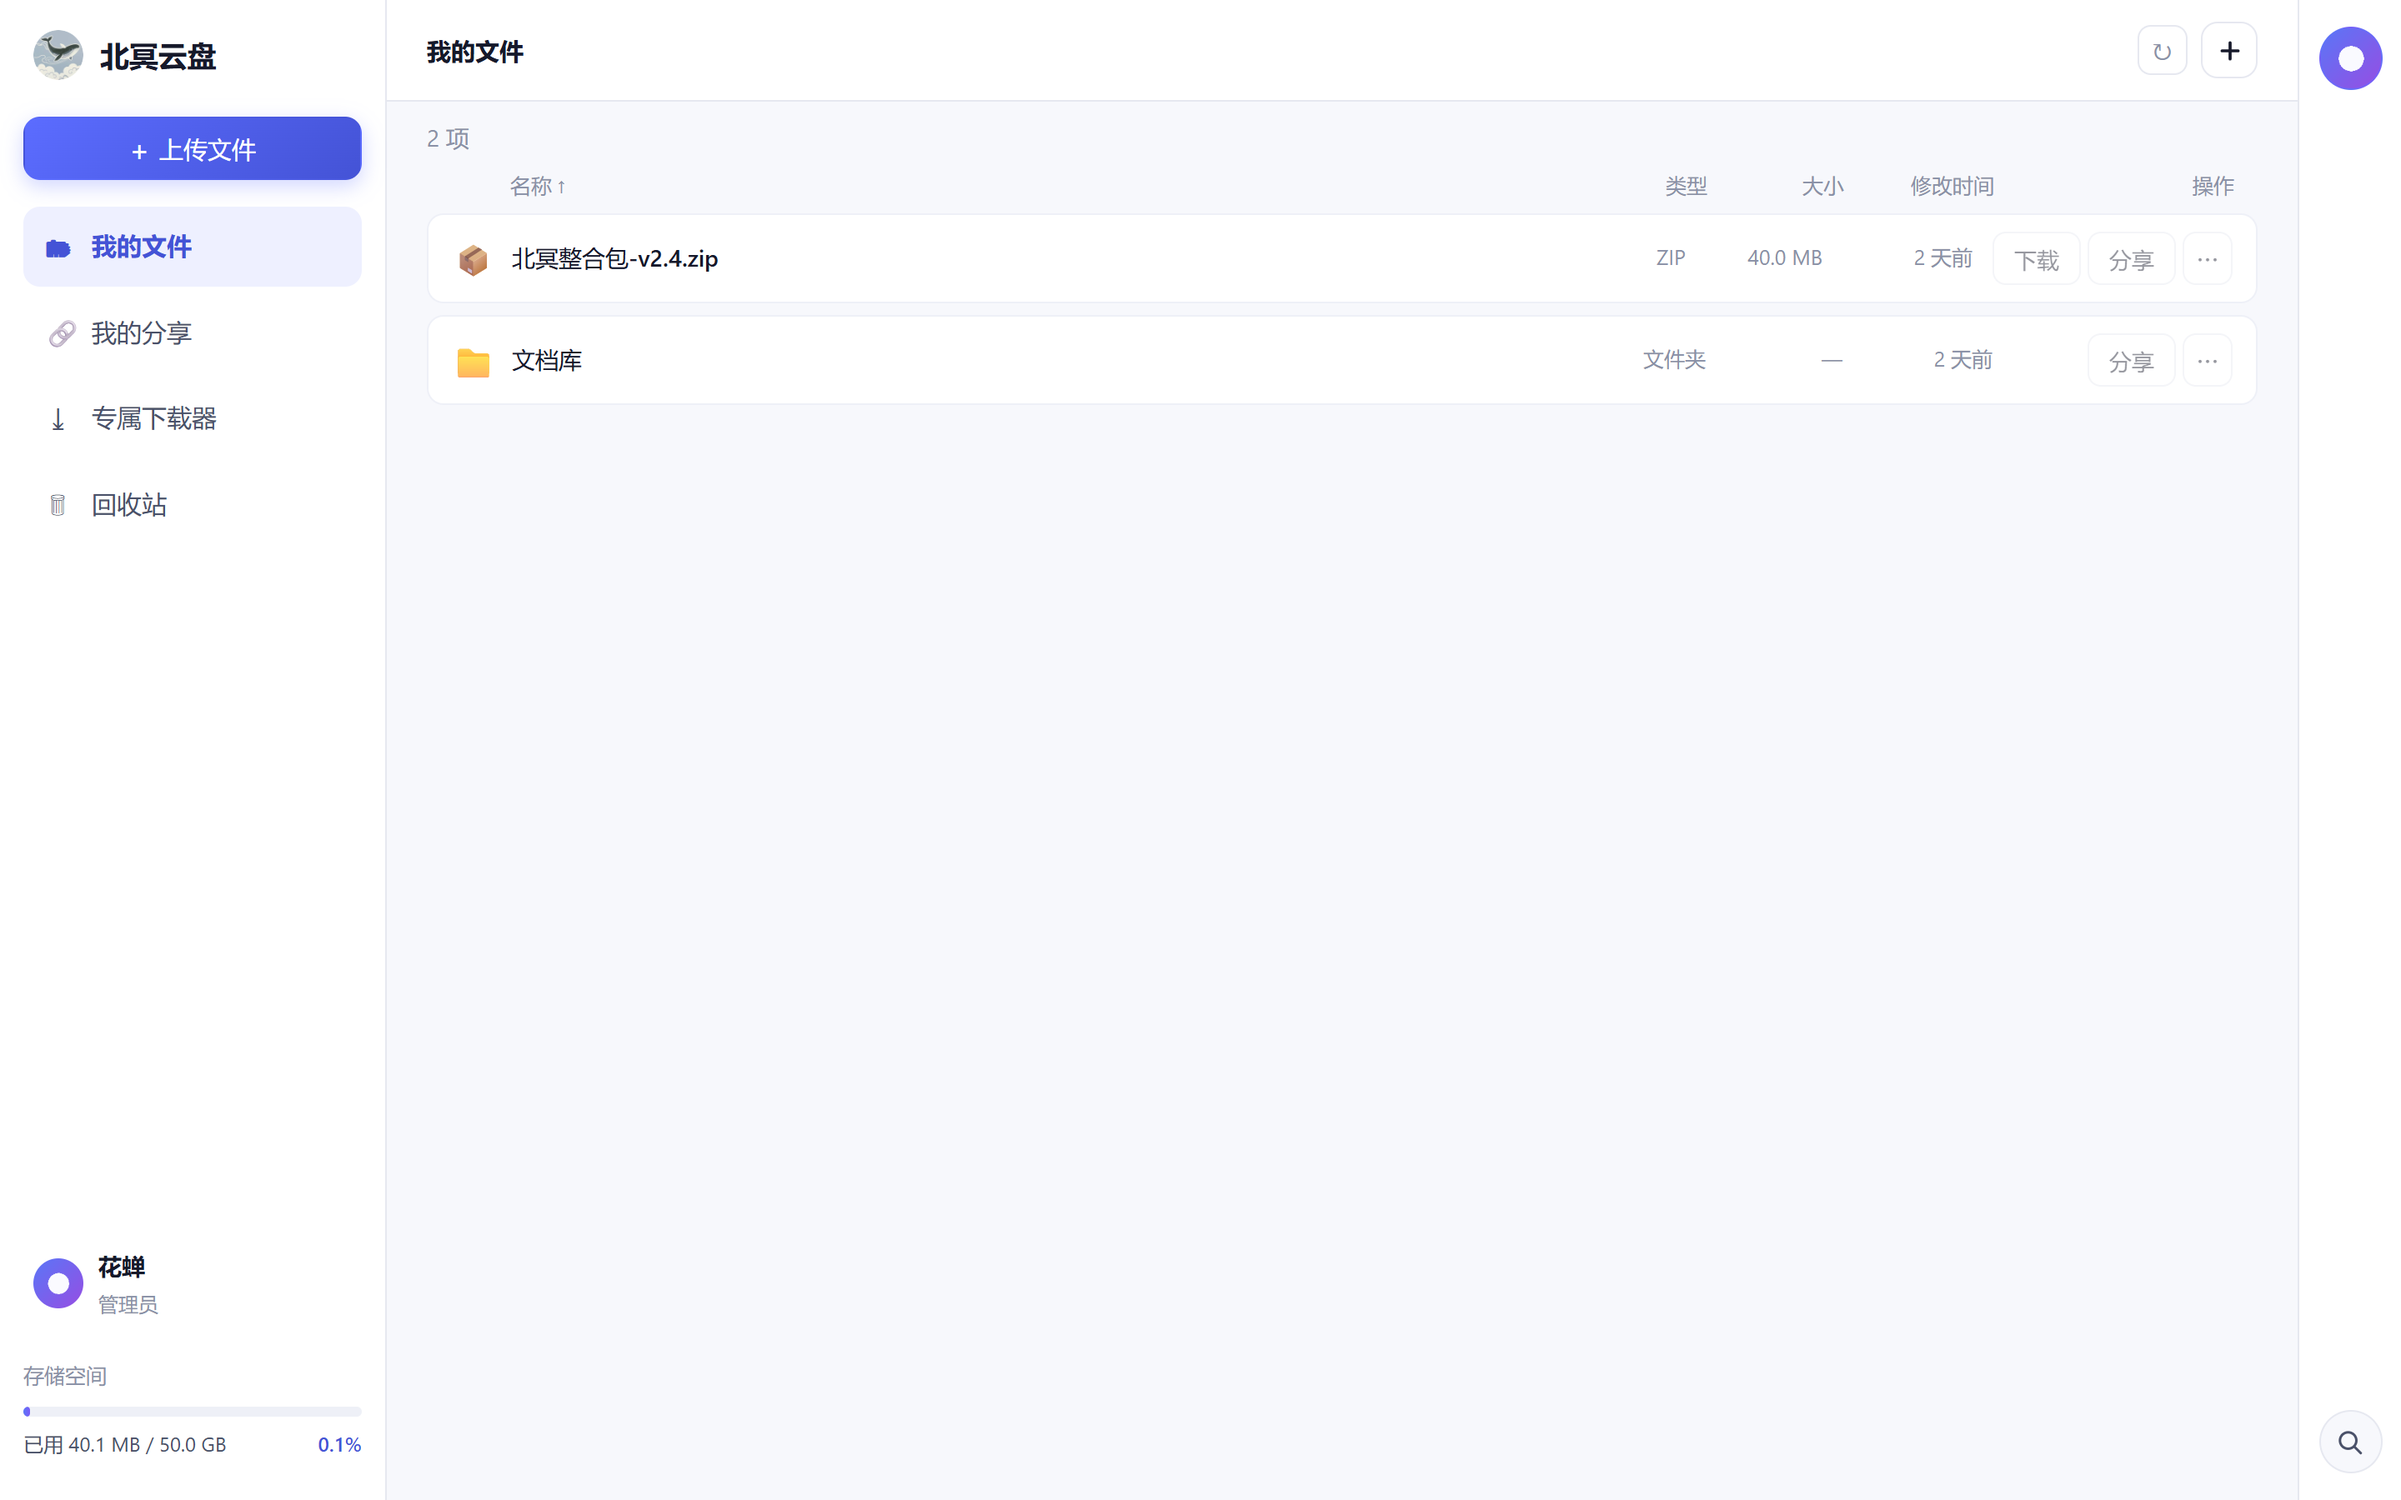
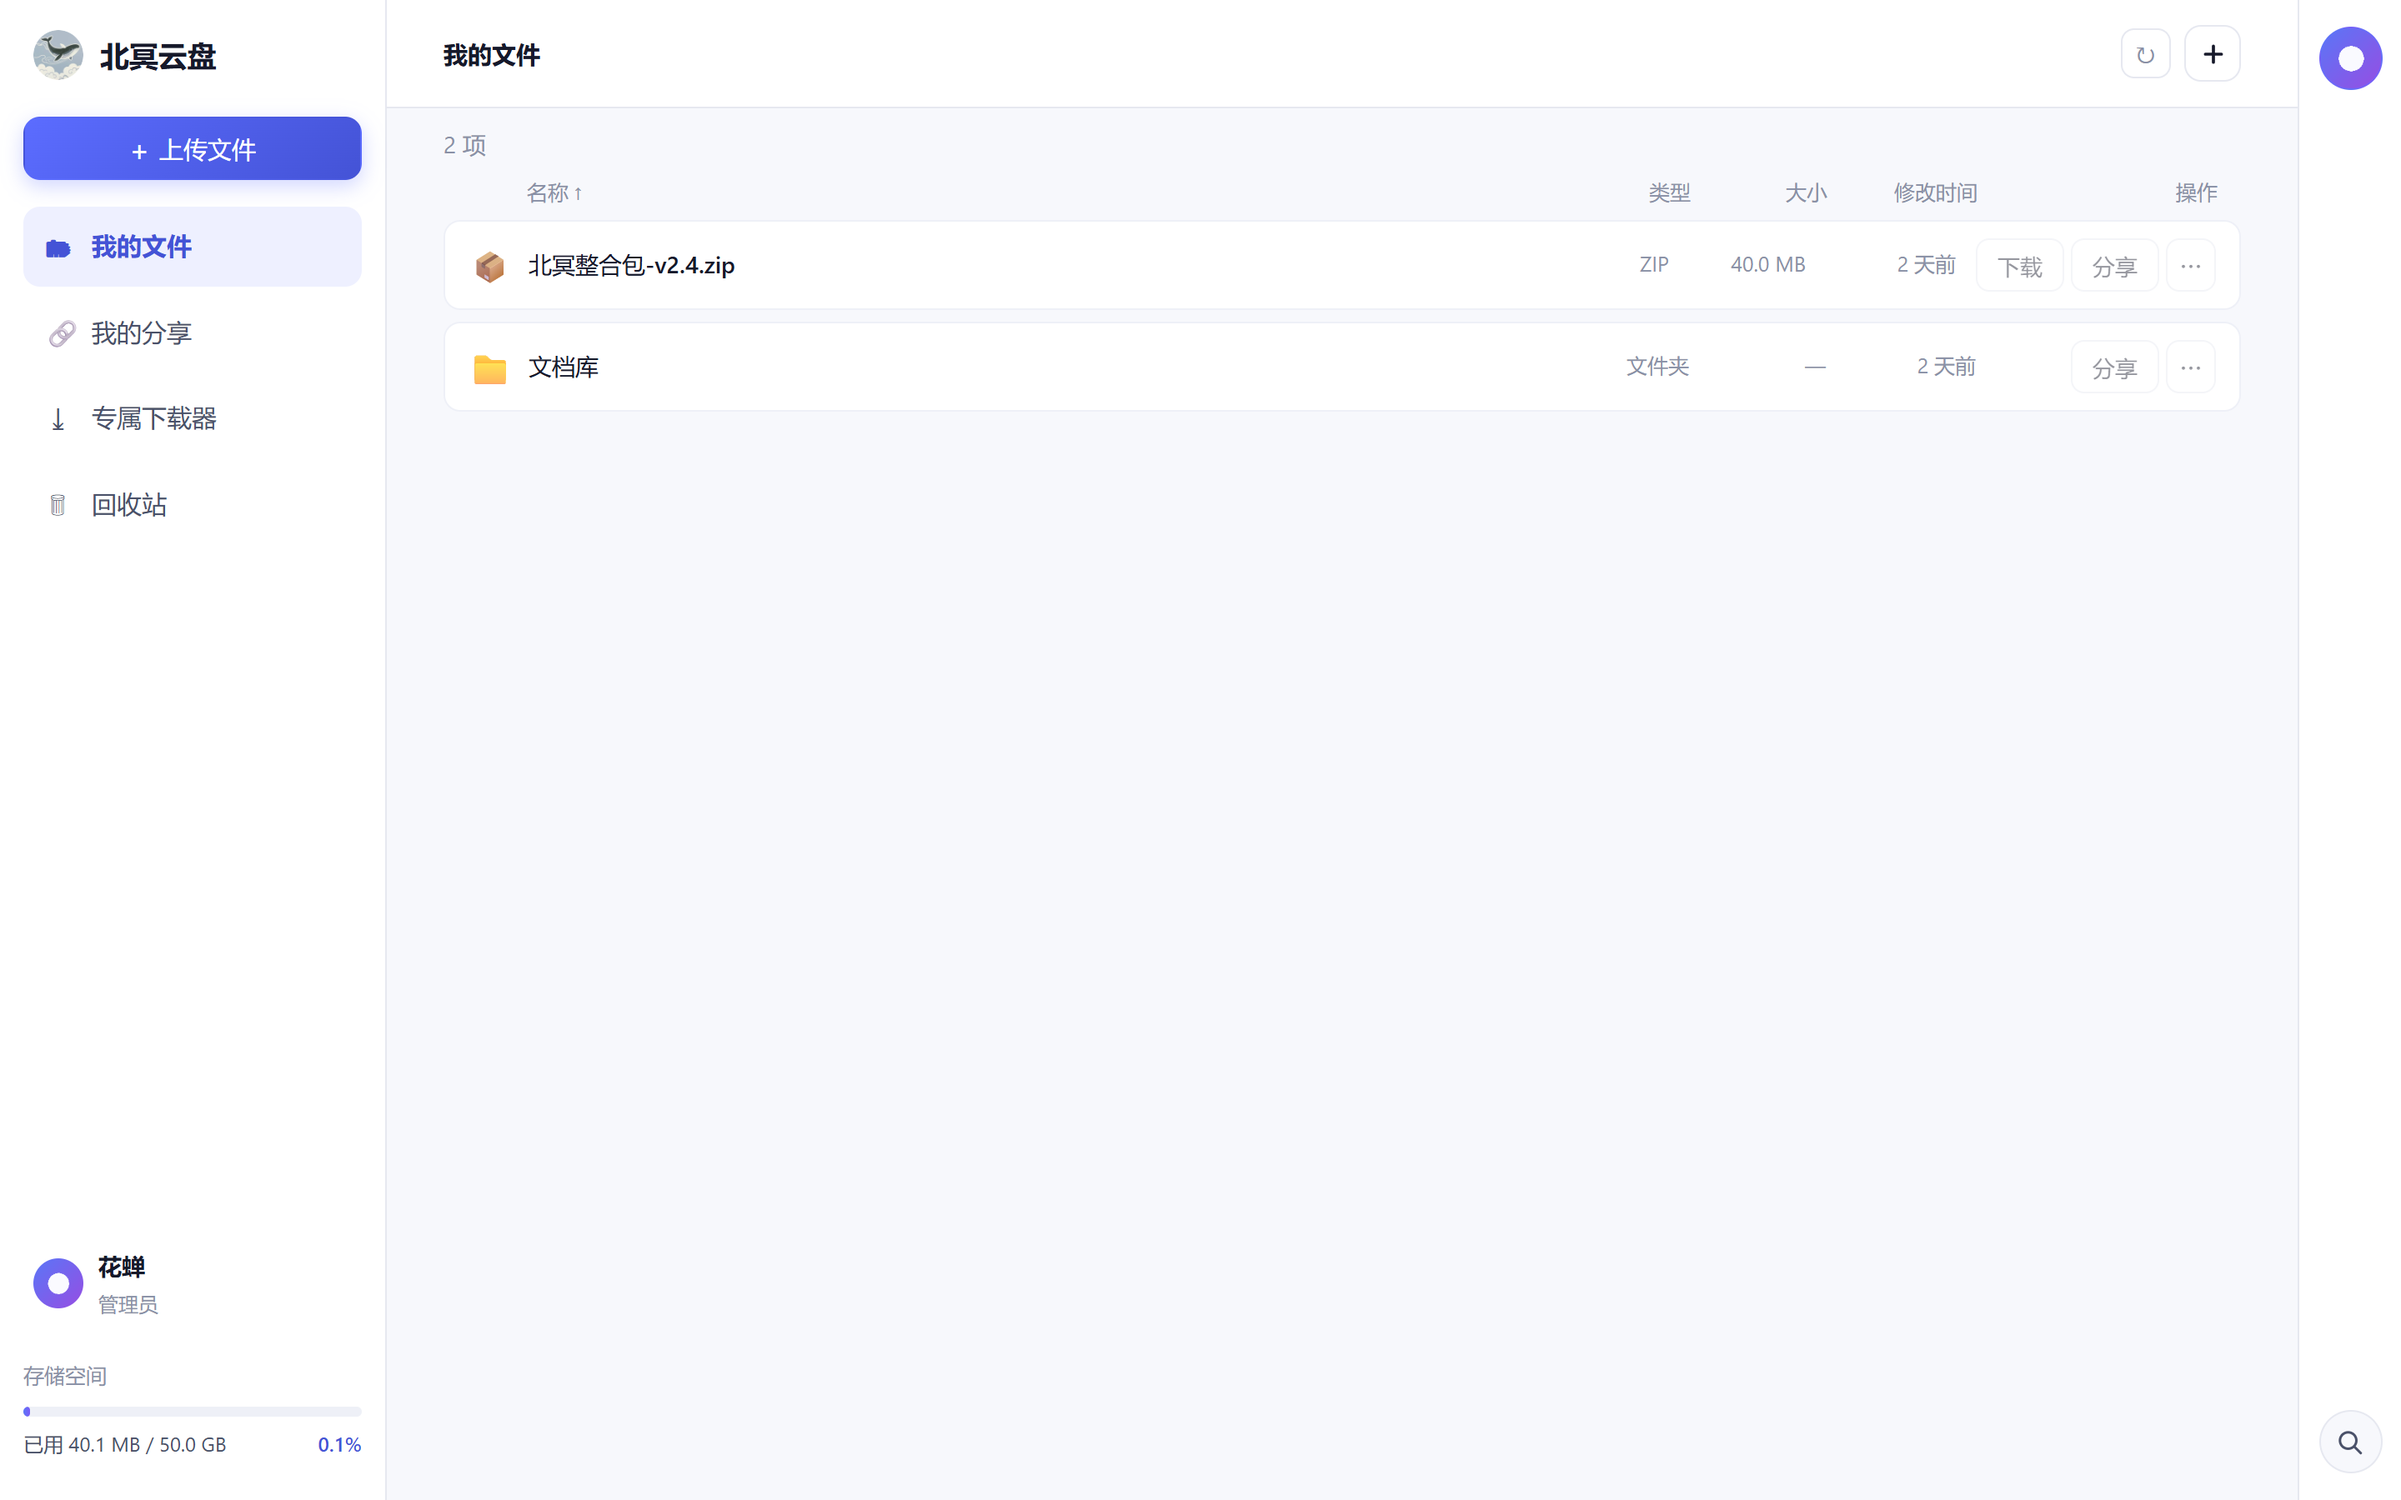
style(web): 统一各页内边距与内容宽度上限，文字不再贴边
下载器页压根没给 .page 定内边距和宽度上限，标题、输入框、任务卡片
全顶着窗口边缘并横向拉满 —— 和另外四页明显不是一套。

- Downloader 补 .page（30px 34px 48px）+ max-width 760px。
- Shares 补 max-width 760px（它有 padding 但没限宽）。
- Home 顶栏与列表横向内边距 24 → 34px，与其余页对齐；
  .bar-info 24 → 34px，和顶栏同一条竖线。
- Downloader 的 .list-head 补 24px 横向内边距：
  「刷新」原本顶在容器边界，与卡片内按钮错开一截。
- 任务卡片 padding 20 → 24px，与下载卡片一致。

不做的：宽屏居中。后台界面左对齐是惯例，且其余四页都是左对齐限宽，
只让这一页居中会和其他页对不上；右侧留白是限宽的自然结果。

实测（CDP 量 getBoundingClientRect，1440x900）：
我的分享/专属下载器/存储空间 左距 34px、内容宽 760px；
个人信息 720px（表单更窄更好读）；
下载器页四条右边线全部落在 1002px —— 开始下载、说明文字、刷新、删除完全齐。

教训：这类「齐不齐」不要靠看截图判断。vision 目测说差十几像素，
实际量出来是同一条线；差的是估算，不是布局。

diff --git a/frontend/src/pages/Downloader.vue b/frontend/src/pages/Downloader.vue
@@ -154,6 +154,19 @@ onUnmounted(() => { if (timer) clearInterval(timer) })
 
 <style scoped>
 
+/* 之前这一页压根没给 .page 定内边距和宽度上限，
+   于是标题、输入框、任务卡片全都顶着窗口边缘，横向拉满 ——
+   和「我的文件 / 存储空间」那几页明显不是一套。
+   这里补齐，并限宽：一行文字超过 760px 就要来回扫，读着累。 */
+.page {
+  flex: 1; display: flex; flex-direction: column;
+  overflow-y: auto; padding: 30px 34px 48px; min-height: 0;
+}
+.page > * { max-width: 760px; width: 100%; }
+
+/* 不做宽屏居中：后台界面左对齐才是惯例，且其余四页都是左对齐限宽，
+   只有这一页居中会和它们对不上。右侧留白是限宽的自然结果，不是缺陷。 */
+
 .head h2 { margin: 0; font-size: 21px; }
 .head p { margin: 7px 0 26px; font-size: 14px; }
 
@@ -165,11 +178,17 @@ onUnmounted(() => { if (timer) clearInterval(timer) })
 .err { background: #fff5f4; color: var(--danger); border: 1px solid #ffd5d2;
        padding: 9px 12px; border-radius: 9px; font-size: 13.5px; margin-top: 12px; }
 
-.list-head { display: flex; align-items: center; justify-content: space-between; margin-bottom: 16px; margin-top: 4px; }
+.list-head {
+  display: flex; align-items: center; justify-content: space-between;
+  margin-bottom: 16px; margin-top: 4px;
+  /* 和卡片内部同一条右边线：「刷新」原本顶在 760px 边界上，
+     而卡片里的按钮有 24px 内边距，右边会错开一截。 */
+  padding: 0 24px;
+}
 .list-head h3 { margin: 0; font-size: 16.5px; }
 
 .jobs { display: flex; flex-direction: column; gap: 10px; }
-.job { display: flex; align-items: center; gap: 16px; padding: 17px 20px; }
+.job { display: flex; align-items: center; gap: 16px; padding: 18px 24px; }
 .job-main { flex: 1; min-width: 0; }
 .job-name { font-size: 14px; font-weight: 500; overflow: hidden; text-overflow: ellipsis; white-space: nowrap; }
 .job-meta { display: flex; align-items: center; gap: 9px; font-size: 12.5px; margin-top: 6px; flex-wrap: wrap; }

diff --git a/frontend/src/pages/Home.vue b/frontend/src/pages/Home.vue
@@ -1421,7 +1421,7 @@ onUnmounted(() => {
 
 .topbar {
   display: flex; align-items: center; justify-content: space-between; gap: 16px;
-  padding: 13px 24px; background: #fff; border-bottom: 1px solid var(--line);
+  padding: 15px 34px; background: #fff; border-bottom: 1px solid var(--line);
 }
 .crumbs { display: flex; align-items: center; gap: 7px; font-size: 14.5px;
           min-width: 0; overflow: hidden; }
@@ -1448,7 +1448,7 @@ onUnmounted(() => {
 
 .bar-info {
   display: flex; align-items: center; justify-content: space-between;
-  padding: 11px 24px 8px; font-size: 14px; gap: 12px; flex-shrink: 0;
+  padding: 11px 34px 8px; font-size: 14px; gap: 12px; flex-shrink: 0;
 }
 .right-side { display: flex; align-items: center; gap: 10px; }
 .sort-group { display: flex; align-items: center; gap: 4px; }
@@ -1460,7 +1460,7 @@ onUnmounted(() => {
 .sort-btn.on { background: var(--brand-soft); color: var(--brand-deep); font-weight: 600; }
 .sort-btn i { font-style: normal; margin-left: 3px; font-size: 11.5px; }
 
-.list { flex: 1; overflow-y: auto; padding: 0 24px 24px; }
+.list { flex: 1; overflow-y: auto; padding: 0 34px 30px; }
 
 /* 表头：列宽必须与 .row 完全一致，否则文字会跟数据错位 */
 .thead {

diff --git a/frontend/src/pages/Shares.vue b/frontend/src/pages/Shares.vue
@@ -81,6 +81,8 @@ onMounted(() => {
 /* 布局骨架（.shell/.side/.main）已经搬到 AppShell 里，
    这里只留「内容区」自己的样式，避免三份重复定义互相打架。 */
 .page { padding: 30px 34px 46px; }
+/* 与存储页/个人页同宽上限，避免超宽屏下一行拉太长 */
+.page > * { max-width: 760px; width: 100%; }
 .page h2 { margin: 0 0 6px; font-size: 21px; }
 .sub { margin: 5px 0 22px; font-size: 13.5px; }
 

diff --git a/scripts/measure_margin.py b/scripts/measure_margin.py
@@ -1,0 +1,42 @@
+# -*- coding: utf-8 -*-
+"""量各页面内容距主区左右边缘的实际距离，并检查内容宽度上限。"""
+import json, urllib.request, time
+from websocket import create_connection
+B="http://127.0.0.1:8140"; CDP="http://127.0.0.1:9444"
+tabs=json.loads(urllib.request.urlopen(CDP+"/json/list",timeout=10).read())
+page=next(t for t in tabs if t["type"]=="page")
+ws=create_connection(page["webSocketDebuggerUrl"],timeout=90); _id=[0]
+def cmd(m,**kw):
+    _id[0]+=1; ws.send(json.dumps({"id":_id[0],"method":m,"params":kw}))
+    while True:
+        r=json.loads(ws.recv())
+        if r.get("id")==_id[0]: return r.get("result",{})
+def js(e):
+    r=cmd("Runtime.evaluate",expression=e,returnByValue=True,awaitPromise=True)
+    if "exceptionDetails" in r: return f"<ERR>{str(r['exceptionDetails'])[:200]}"
+    return r.get("result",{}).get("value")
+
+cmd("Page.enable"); cmd("Runtime.enable")
+cmd("Network.setCacheDisabled", cacheDisabled=True)
+cmd("Emulation.setDeviceMetricsOverride", width=1440, height=900, deviceScaleFactor=2, mobile=False)
+
+PROBE = """(() => {
+  const main = document.querySelector('.main');
+  if (!main) return '无 .main';
+  const mr = main.getBoundingClientRect();
+  // 找这一页里第一个有文字的块级内容，量它离主区左右边各多远
+  const cand = ['.topbar', '.page h2', '.head h2', '.list-head', '.panel'];
+  for (const sel of cand) {
+    const el = document.querySelector(sel);
+    if (!el) continue;
+    const r = el.getBoundingClientRect();
+    const left = Math.round(r.x - mr.x), right = Math.round(mr.right - r.right);
+    return `${sel}: 左距${left}px 右距${right}px 内容宽${Math.round(r.width)}px`;
+  }
+  return '未找到内容块';
+})()"""
+
+for path, name in [("/", "我的文件"), ("/shares", "我的分享"), ("/downloader", "专属下载器"),
+                   ("/storage", "存储空间"), ("/profile", "个人信息")]:
+    cmd("Page.navigate", url=B+path); time.sleep(2.6)
+    print(f"{name:8} {js(PROBE)}")

diff --git a/scripts/_right.py b/scripts/_right.py
@@ -1,0 +1,38 @@
+
+import json, urllib.request, time
+from websocket import create_connection
+B="http://127.0.0.1:8140"; CDP="http://127.0.0.1:9444"
+tabs=json.loads(urllib.request.urlopen(CDP+"/json/list",timeout=10).read())
+page=next(t for t in tabs if t["type"]=="page")
+ws=create_connection(page["webSocketDebuggerUrl"],timeout=60); i=[0]
+def cmd(m,**kw):
+    i[0]+=1; ws.send(json.dumps({"id":i[0],"method":m,"params":kw}))
+    while True:
+        r=json.loads(ws.recv())
+        if r.get("id")==i[0]: return r.get("result",{})
+def js(e):
+    r=cmd("Runtime.evaluate",expression=e,returnByValue=True,awaitPromise=True)
+    if "exceptionDetails" in r: return str(r["exceptionDetails"])[:200]
+    return r.get("result",{}).get("value")
+cmd("Page.enable"); cmd("Runtime.enable")
+cmd("Network.setCacheDisabled", cacheDisabled=True)
+cmd("Emulation.setDeviceMetricsOverride", width=1440, height=900, deviceScaleFactor=2, mobile=False)
+cmd("Page.navigate", url=B+"/downloader"); time.sleep(3)
+print(js("""(() => {
+  const g = (sel, label) => {
+    const el = document.querySelector(sel);
+    if (!el) return label + ': 无';
+    const r = el.getBoundingClientRect();
+    return `${label}: 右边=${Math.round(r.right)} 左=${Math.round(r.left)} 宽=${Math.round(r.width)}`;
+  };
+  return [
+    g('.panel', '下载卡片'),
+    g('.panel .btn-primary', '开始下载'),
+    g('.panel .hint', '说明文字'),
+    g('.list-head', '列表头容器'),
+    g('.list-head .btn', '刷新'),
+    g('.job', '任务卡片'),
+    g('.job-ops .btn:last-child', '最后一个按钮(删除)'),
+    g('.job-ops', '按钮组'),
+  ].join('\\n');
+})()"""))

diff --git a/scripts/_m2.py b/scripts/_m2.py
@@ -1,0 +1,28 @@
+
+import json, urllib.request, time
+from websocket import create_connection
+B="http://127.0.0.1:8140"; CDP="http://127.0.0.1:9444"
+tabs=json.loads(urllib.request.urlopen(CDP+"/json/list",timeout=10).read())
+page=next(t for t in tabs if t["type"]=="page")
+ws=create_connection(page["webSocketDebuggerUrl"],timeout=60); i=[0]
+def cmd(m,**kw):
+    i[0]+=1; ws.send(json.dumps({"id":i[0],"method":m,"params":kw}))
+    while True:
+        r=json.loads(ws.recv())
+        if r.get("id")==i[0]: return r.get("result",{})
+def js(e):
+    r=cmd("Runtime.evaluate",expression=e,returnByValue=True,awaitPromise=True)
+    return r.get("result",{}).get("value")
+cmd("Page.enable"); cmd("Runtime.enable")
+cmd("Page.navigate", url=B+"/"); time.sleep(3)
+print(js("""(() => {
+  const main=document.querySelector('.main').getBoundingClientRect();
+  const out=[];
+  for (const sel of ['.topbar','.crumbs','.bar-info','.list','.row-name']) {
+    const el=document.querySelector(sel);
+    if(!el) { out.push(sel+': 无'); continue; }
+    const r=el.getBoundingClientRect();
+    out.push(`${sel}: 左距${Math.round(r.x-main.x)} 内容宽${Math.round(r.width)} padding=${getComputedStyle(el).padding}`);
+  }
+  return out.join('\\n');
+})()"""))

diff --git a/scripts/shot_dl.py b/scripts/shot_dl.py
@@ -1,0 +1,21 @@
+# -*- coding: utf-8 -*-
+import json, urllib.request, time, base64, os
+from websocket import create_connection
+B="http://127.0.0.1:8140"; CDP="http://127.0.0.1:9444"
+OUT=r"C:\Users\15780\dev\beiming-drive\docs\screenshots\font"
+tabs=json.loads(urllib.request.urlopen(CDP+"/json/list",timeout=10).read())
+page=next(t for t in tabs if t["type"]=="page")
+ws=create_connection(page["webSocketDebuggerUrl"],timeout=90); _id=[0]
+def cmd(m,**kw):
+    _id[0]+=1; ws.send(json.dumps({"id":_id[0],"method":m,"params":kw}))
+    while True:
+        r=json.loads(ws.recv())
+        if r.get("id")==_id[0]: return r.get("result",{})
+def shot(name):
+    r=cmd("Page.captureScreenshot",format="png")
+    f=os.path.join(OUT,name); open(f,"wb").write(base64.b64decode(r["data"])); return f
+cmd("Page.enable"); cmd("Runtime.enable")
+cmd("Network.setCacheDisabled", cacheDisabled=True)
+cmd("Emulation.setDeviceMetricsOverride", width=1440, height=900, deviceScaleFactor=2, mobile=False)
+cmd("Page.navigate", url=B+"/downloader"); time.sleep(3)
+print(shot("60-downloader.png"))
